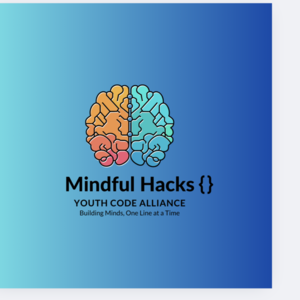
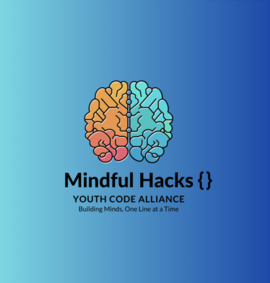
Crop Mindful Hacks flier and fill the past-hackathon card frame

Changed region(s): [[0.0, 0.0, 1.0, 1.0], [0.2074, 0.2827, 0.8, 0.7633]]

diff --git a/src/styles/components.css b/src/styles/components.css
@@ -857,7 +857,7 @@
   border-bottom: 1px solid var(--line);
   overflow: hidden;
 }
-.past-hack__flier img { width: 100%; height: 100%; object-fit: contain; transition: transform 0.4s var(--ease); }
+.past-hack__flier img { width: 100%; height: 100%; object-fit: cover; object-position: center; transition: transform 0.4s var(--ease); }
 .past-hack:hover .past-hack__flier img { transform: scale(1.03); }
 .past-hack__placeholder {
   display: grid;
